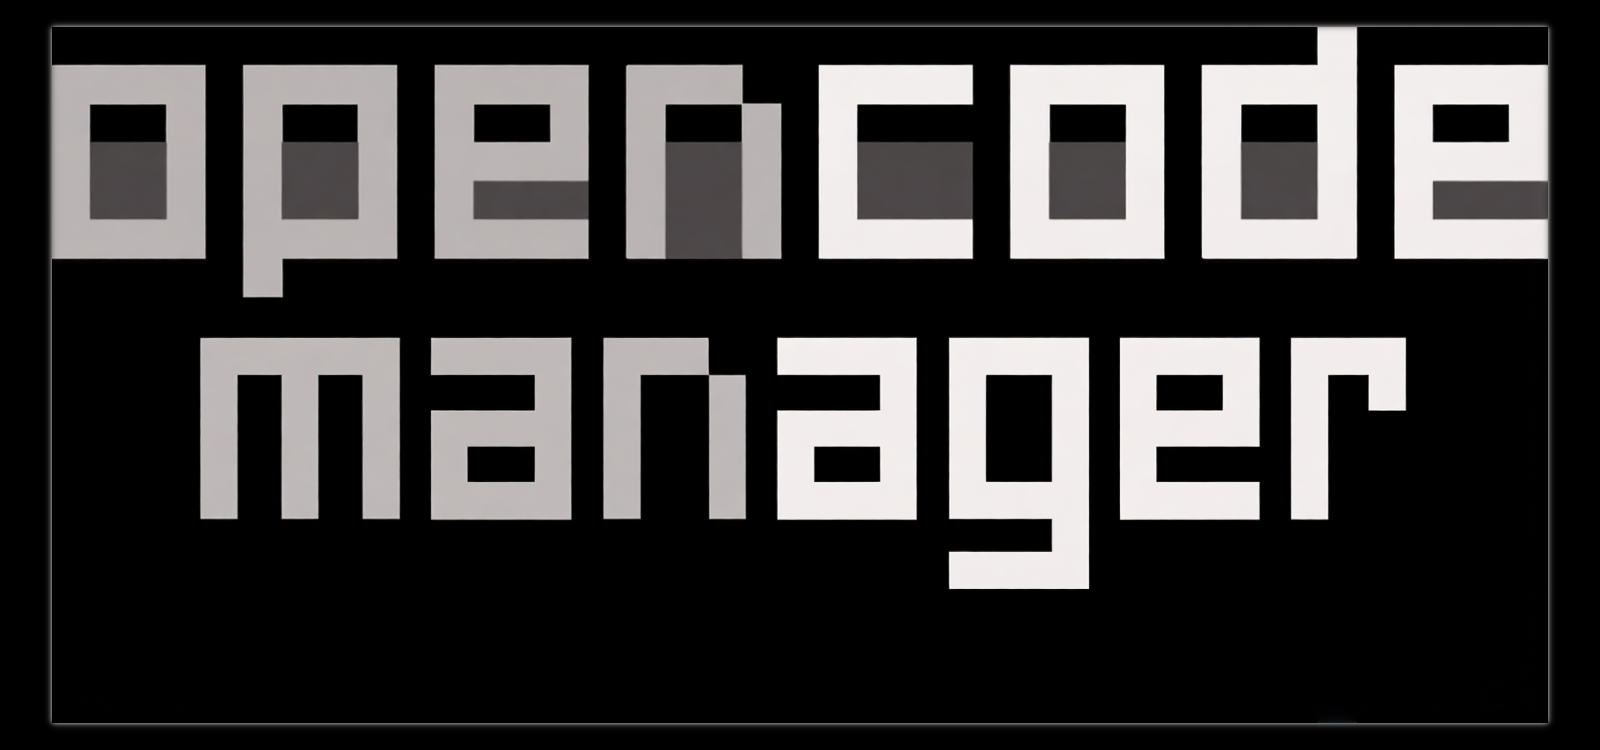
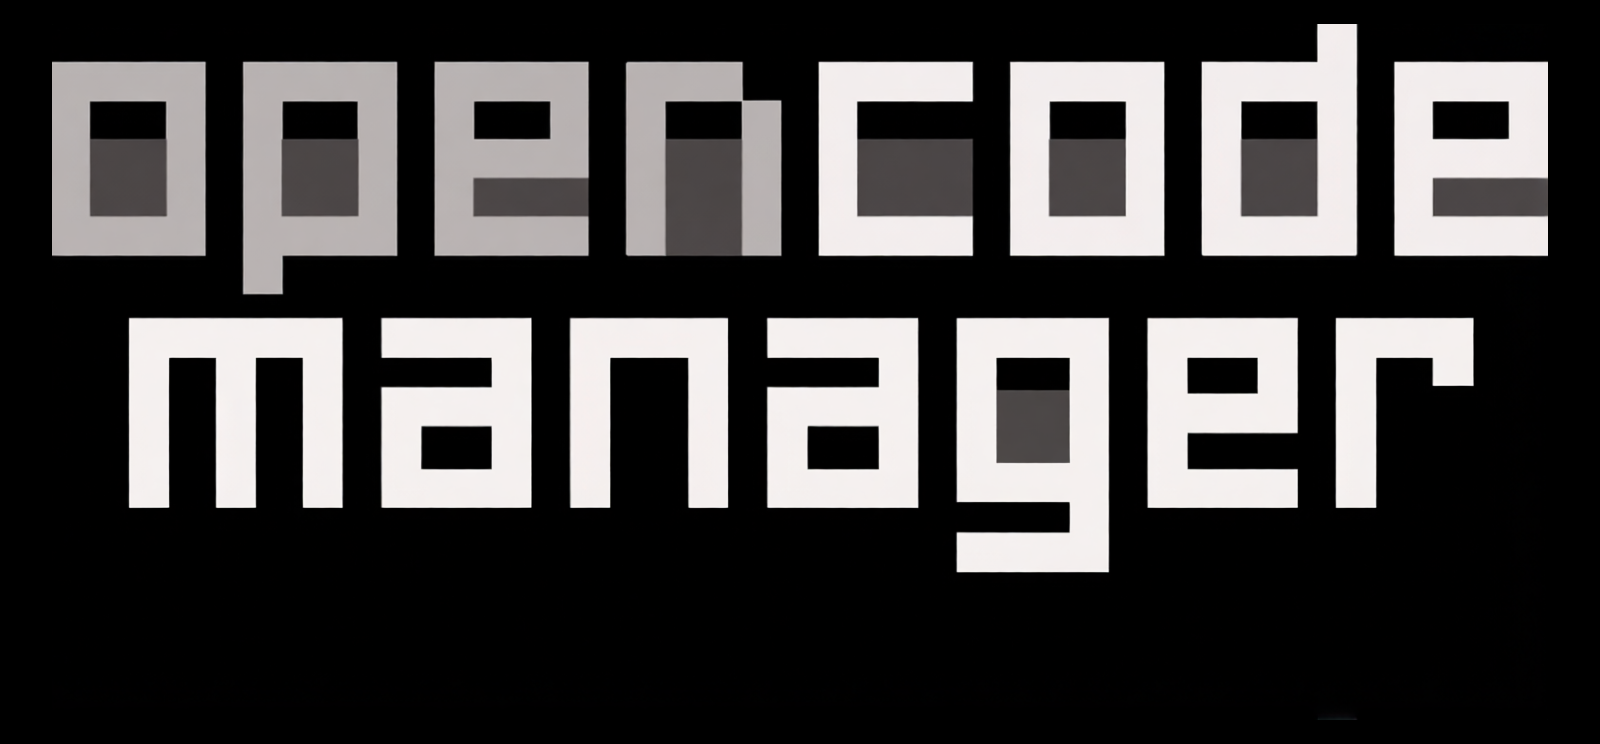
Update README with hero social preview image

diff --git a/README.md b/README.md
@@ -1,3 +1,7 @@
+<p align="center">
+    <img src=".github/social-preview.png" alt="OpenCode Manager" width="600" style="border: none" />
+</p>
+
 # OpenCode Manager
 
 Mobile-first web interface for [OpenCode](https://opencode.ai) AI agents. Manage, control, and code from any device - your phone, tablet, or desktop.
